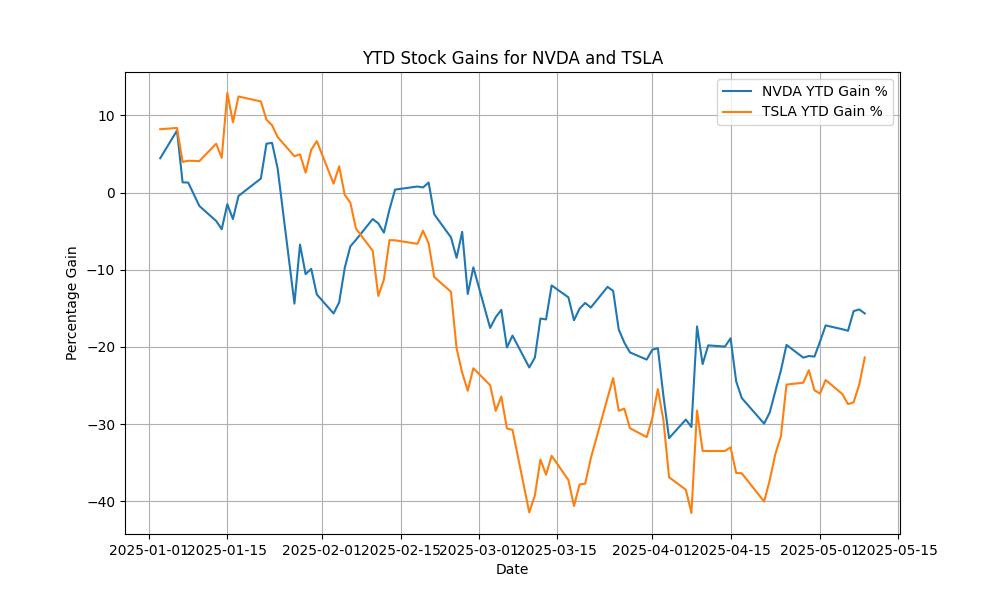
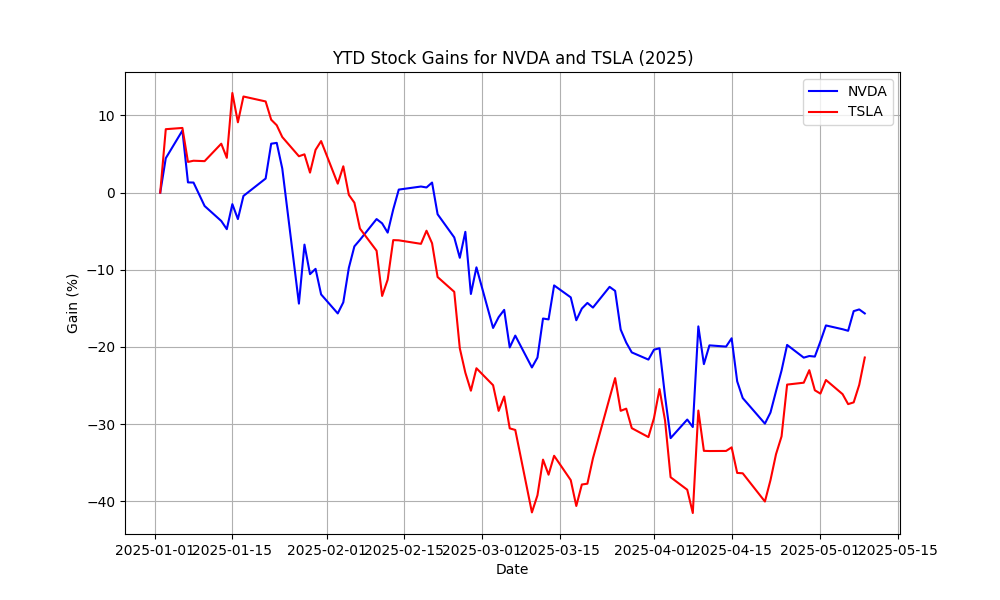
update the financial agent

diff --git a/financial_analysis.py b/financial_analysis.py
@@ -84,3 +84,40 @@ def plot_stock_prices(stock_prices, filename):
     plt.ylabel("Price")
     plt.grid(True)
     plt.savefig(filename)
+
+    
+executor = LocalCommandLineCodeExecutor(
+    timeout=60,
+    work_dir="coding",
+    functions=[get_stock_prices, plot_stock_prices]
+)
+
+code_writer_agent_system_message += executor.format_functions_for_prompt()
+print("NEW Executor\n")
+print(code_writer_agent_system_message)
+
+code_writer_agent = ConversableAgent(
+    name="code_writer_agent",
+    system_message=code_writer_agent_system_message,
+    llm_config=llm_config,
+    code_execution_config=False,
+    human_input_mode="NEVER"
+)
+
+code_executor_agent = ConversableAgent(
+    name="code_executor_agent",
+    llm_config=False,
+    code_execution_config={ "executor": executor},
+    human_input_mode="ALWAYS",
+    default_auto_reply="Please continue. If everything is done, reply 'TERMINATE'"
+)
+
+chat_result = code_executor_agent.initiate_chat(
+    code_writer_agent,
+    message=f"Today is {today}."
+    "Download the stock prices YTD for NVDA and TSLA and create "
+    "a plot. Make sure the code is in markdown code block and "
+    "save the figure to a file stock_prices_YTD_plot.png."
+)
+
+Image(os.path.join("coding", "stock_prices_YTD_plot.png"))

diff --git a/coding/functions.py b/coding/functions.py
@@ -1,0 +1,43 @@
+
+
+def get_stock_prices(stock_symbols, start_date, end_date):
+    """Get the stock prices for the given stock symbols between 
+    the start and end dates.
+    
+    Args:
+        stock_symbols(str or list): The stock symbols to get the price for.
+        start_date (str): the start date in the format 'YYYY-MM-DD'.
+        end_date (str): The end date in the format 'YYYY-MM-DD'.
+        
+    Returns:
+        pandas.DataFrame: the stock prices for the given stock
+        symbols indexed by date, with one column per stock
+        symbol. 
+    """
+
+    stock_data = yfinance.download(
+        stock_symbols, start=start_date, end=end_date
+    )
+    return stock_data.get("Close")
+
+
+def plot_stock_prices(stock_prices, filename):
+    """Plot the stock prices for the given stock symbols
+    
+    Args:
+        stock_prices (pandas.DateFrame): The stock prices for the give stock symbols.
+    """
+    import matplotlib.pyplot as plt
+    plt.figure(figsize=(10,5))
+
+    for column in stock_prices.columns:
+        plt.plot(
+            stock_prices.index, stock_prices[column], label=column
+        )
+    plt.title("Stock Prices")
+    plt.xlabel("Date")
+    plt.ylabel("Price")
+    plt.grid(True)
+    plt.savefig(filename)
+
+

diff --git a/coding/tmp_code_1e8712af4f174194716efa9480268b23.py b/coding/tmp_code_1e8712af4f174194716efa9480268b23.py
@@ -1,0 +1,43 @@
+
+
+def get_stock_prices(stock_symbols, start_date, end_date):
+    """Get the stock prices for the given stock symbols between 
+    the start and end dates.
+    
+    Args:
+        stock_symbols(str or list): The stock symbols to get the price for.
+        start_date (str): the start date in the format 'YYYY-MM-DD'.
+        end_date (str): The end date in the format 'YYYY-MM-DD'.
+        
+    Returns:
+        pandas.DataFrame: the stock prices for the given stock
+        symbols indexed by date, with one column per stock
+        symbol. 
+    """
+
+    stock_data = yfinance.download(
+        stock_symbols, start=start_date, end=end_date
+    )
+    return stock_data.get("Close")
+
+
+def plot_stock_prices(stock_prices, filename):
+    """Plot the stock prices for the given stock symbols
+    
+    Args:
+        stock_prices (pandas.DateFrame): The stock prices for the give stock symbols.
+    """
+    import matplotlib.pyplot as plt
+    plt.figure(figsize=(10,5))
+
+    for column in stock_prices.columns:
+        plt.plot(
+            stock_prices.index, stock_prices[column], label=column
+        )
+    plt.title("Stock Prices")
+    plt.xlabel("Date")
+    plt.ylabel("Price")
+    plt.grid(True)
+    plt.savefig(filename)
+
+

diff --git a/coding/stock_gain_plot.py b/coding/stock_gain_plot.py
@@ -1,0 +1,33 @@
+# filename: stock_gain_plot.py
+import yfinance as yf
+import matplotlib.pyplot as plt
+
+# Define start of year and today's date for 2025
+start_date = "2025-01-01"
+end_date = "2025-05-10"
+
+# Fetch data for NVDA and TSLA
+nvda_data = yf.download('NVDA', start=start_date, end=end_date)
+tsla_data = yf.download('TSLA', start=start_date, end=end_date)
+
+# Calculate YTD gains, assuming data is available
+nvda_gain = (nvda_data['Close'] - nvda_data['Close'].iloc[0]) / nvda_data['Close'].iloc[0] * 100
+tsla_gain = (tsla_data['Close'] - tsla_data['Close'].iloc[0]) / tsla_data['Close'].iloc[0] * 100
+
+# Create the plot
+plt.figure(figsize=(10, 6))
+plt.plot(nvda_gain, label='NVDA', color='blue')
+plt.plot(tsla_gain, label='TSLA', color='red')
+plt.title('YTD Stock Gains for NVDA and TSLA (2025)')
+plt.xlabel('Date')
+plt.ylabel('Gain (%)')
+plt.legend()
+plt.grid(True)
+
+# Save the figure to a file
+plt.savefig('ytd_stock_gains.png')
+
+# Show the plot in a window (optional, comment out if running as a script)
+# plt.show()
+
+print("Plot has been saved as ytd_stock_gains.png.")

diff --git a/coding/fetch_and_plot_stocks_direct.py b/coding/fetch_and_plot_stocks_direct.py
@@ -1,0 +1,24 @@
+# filename: fetch_and_plot_stocks_direct.py
+import yfinance as yf
+import matplotlib.pyplot as plt
+
+# Define the stock symbols and date range
+stock_symbols = ['NVDA', 'TSLA']
+start_date = '2025-01-01'
+end_date = '2025-05-10'
+
+# Fetching the stock data directly using yfinance
+stock_data = yf.download(stock_symbols, start=start_date, end=end_date)
+
+# Plotting the stock prices
+plt.figure(figsize=(14, 7))
+for ticker in stock_symbols:
+    plt.plot(stock_data['Close'][ticker], label=ticker)
+
+plt.title('Stock Prices YTD for NVDA and TSLA')
+plt.xlabel('Date')
+plt.ylabel('Price (USD)')
+plt.legend(title='Ticker')
+plt.grid(True)
+plt.savefig('stock_prices_YTD_plot.png')
+plt.show()

diff --git a/coding/fetch_and_plot_stocks.py b/coding/fetch_and_plot_stocks.py
@@ -1,0 +1,20 @@
+# filename: fetch_and_plot_stocks.py
+from functions import get_stock_prices, plot_stock_prices
+import pandas as pd
+
+# Ensure all required modules are imported
+import yfinance
+
+# Define the stock symbols and date range
+stock_symbols = ['NVDA', 'TSLA']
+start_date = '2025-01-01'
+end_date = '2025-05-10'
+
+# Fetch the stock prices from the start of the year to today
+stock_prices = get_stock_prices(stock_symbols, start_date, end_date)
+
+# Plotting the stock prices
+if not stock_prices.empty:
+    plot_stock_prices(stock_prices, "stock_prices_YTD_plot.png")
+else:
+    print("No stock price data found.")
